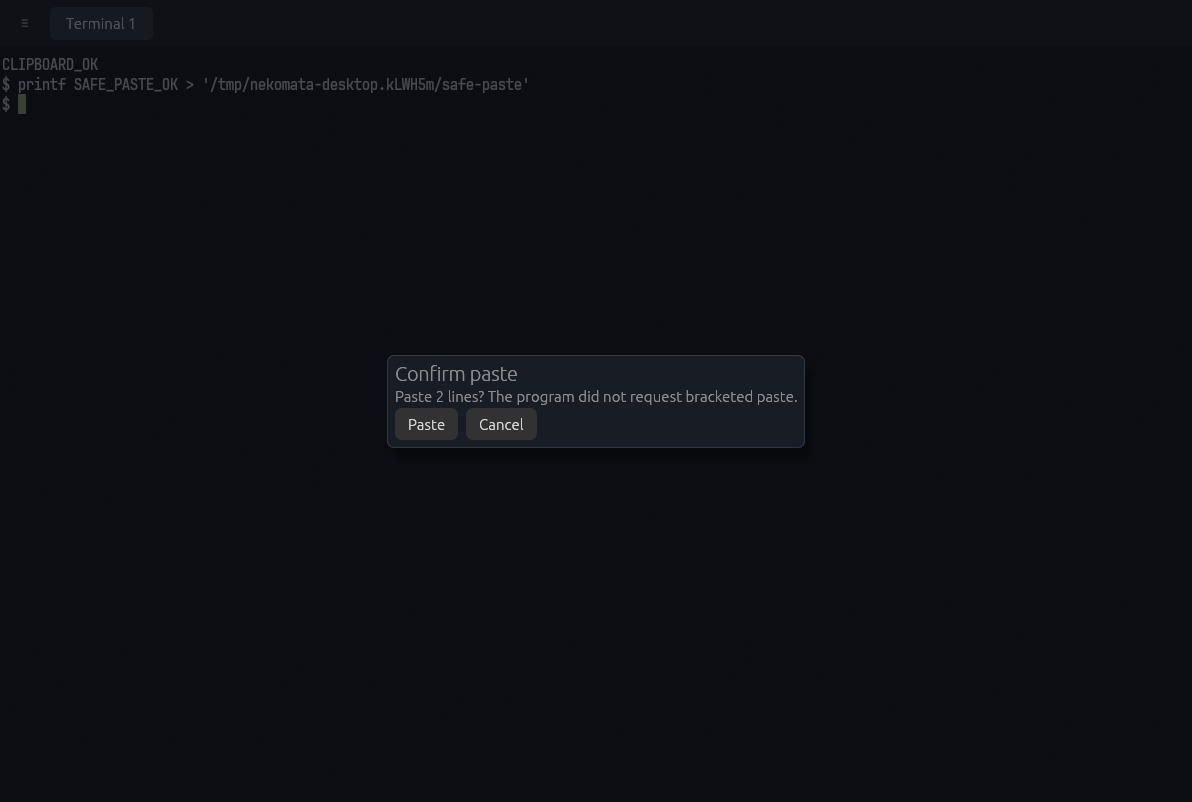
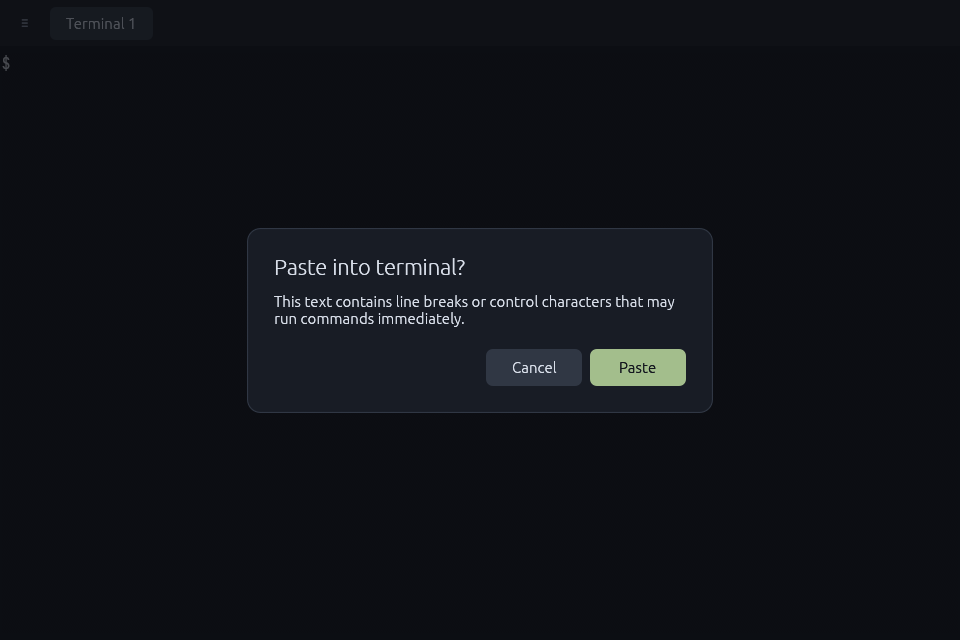
fix: polish paste confirmation dialog
Give the paste decision a clear hierarchy, comfortable spacing, and distinct right-aligned actions. Explain the immediate command-execution risk in plain language instead of exposing bracketed-paste terminology.

Changed region(s): [[0.2812, 0.4062, 0.7188, 0.625], [0.0, 0.0312, 0.4375, 0.1562]]

diff --git a/src/app.rs b/src/app.rs
@@ -981,18 +981,57 @@ impl App {
         else {
             return;
         };
-        let label = pane.pending_paste.as_ref().unwrap().label();
+        use crate::theme;
         let response =
-            egui::Modal::new(egui::Id::unique("paste-confirmation").with(id)).show(ctx, |ui| {
-                ui.heading("Confirm paste");
-                ui.label(label);
-                ui.horizontal(|ui| {
-                    let confirm = ui.button("Paste").clicked();
-                    let cancel = ui.button("Cancel").clicked();
-                    (confirm, cancel)
-                })
-                .inner
-            });
+            egui::Modal::new(egui::Id::unique("paste-confirmation").with(id))
+                .frame(
+                    egui::Frame::new()
+                        .fill(theme::TAB_BAR_BG)
+                        .stroke(egui::Stroke::new(1.0, theme::MENU_BORDER))
+                        .corner_radius(12)
+                        .inner_margin(24),
+                )
+                .show(ctx, |ui| {
+                    ui.set_width((ctx.content_rect().width() - 64.0).clamp(180.0, 380.0));
+                    ui.spacing_mut().item_spacing.y = 12.0;
+                    ui.label(
+                        egui::RichText::new("Paste into terminal?")
+                            .size(20.0)
+                            .strong()
+                            .color(theme::FG),
+                    );
+                    ui.label(
+                        egui::RichText::new(
+                            "This text contains line breaks or control characters that may run commands immediately.",
+                        )
+                        .size(14.0)
+                        .color(theme::FG),
+                    );
+                    ui.add_space(8.0);
+                    ui.with_layout(egui::Layout::right_to_left(egui::Align::Center), |ui| {
+                        ui.spacing_mut().item_spacing.x = 8.0;
+                        let confirm = ui
+                            .add_sized(
+                                [88.0, 34.0],
+                                egui::Button::new(
+                                    egui::RichText::new("Paste").color(theme::BG).strong(),
+                                )
+                                .fill(theme::ACCENT)
+                                .corner_radius(6),
+                            )
+                            .clicked();
+                        let cancel = ui
+                            .add_sized(
+                                [88.0, 34.0],
+                                egui::Button::new(egui::RichText::new("Cancel").color(theme::FG))
+                                    .fill(theme::TAB_ACTIVE_BG)
+                                    .corner_radius(6),
+                            )
+                            .clicked();
+                        (confirm, cancel)
+                    })
+                    .inner
+                });
         if response.inner.0 {
             let pending = pane.pending_paste.take().unwrap();
             let state = pane.session.state.lock().unwrap();

diff --git a/src/paste.rs b/src/paste.rs
@@ -22,10 +22,6 @@ impl PendingPaste {
         connected && self.generation == generation
     }
 
-    pub fn label(&self) -> String {
-        self.question.label().trim_end_matches(" [y/N]").to_owned()
-    }
-
     pub fn into_bytes(self) -> Vec<u8> {
         match self.question {
             felis_client_core::confirm::PendingConfirm::Paste(bytes) => bytes,
